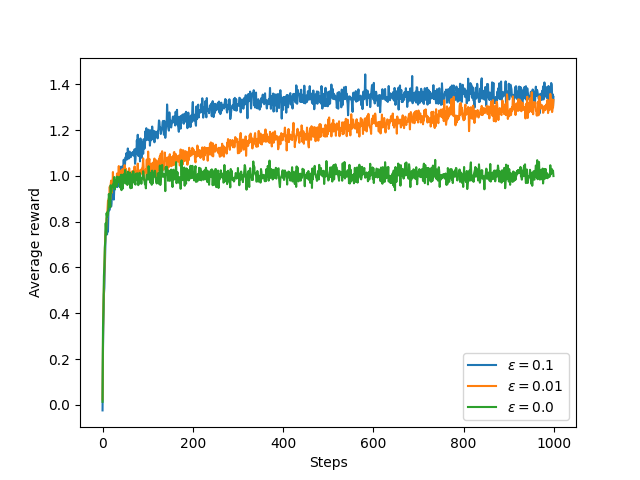
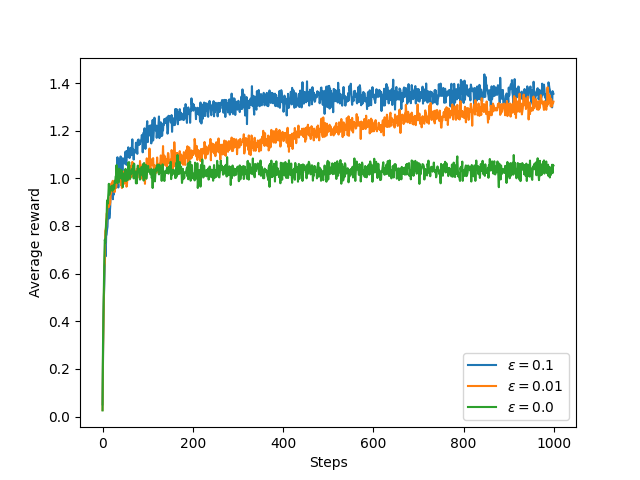
feat: random choice tie-breaker

diff --git a/agents/EpsilonGreedyAgent.py b/agents/EpsilonGreedyAgent.py
@@ -13,7 +13,8 @@ class EpsilonGreedyAgent(BaseAgent):
             return random.randrange(self.num_of_actions)
         else:
             max_q_value = max(self.q_values)
-            return self.q_values.index(max_q_value)
+            max_idx = [i for i, q in enumerate(self.q_values) if q == max_q_value]
+            return random.choice(max_idx)
 
     def learn(self, action, reward) -> None:
         self.action_counts[action] += 1
